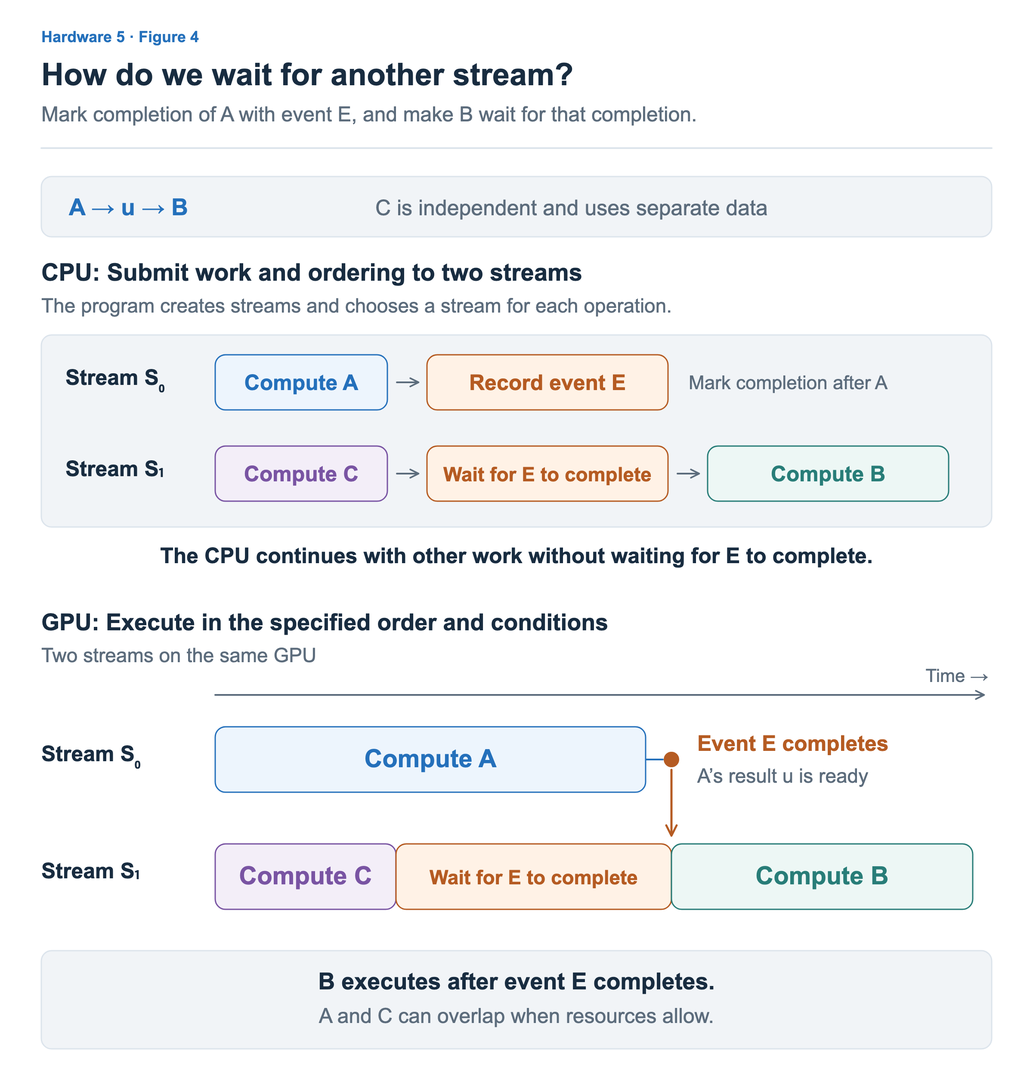
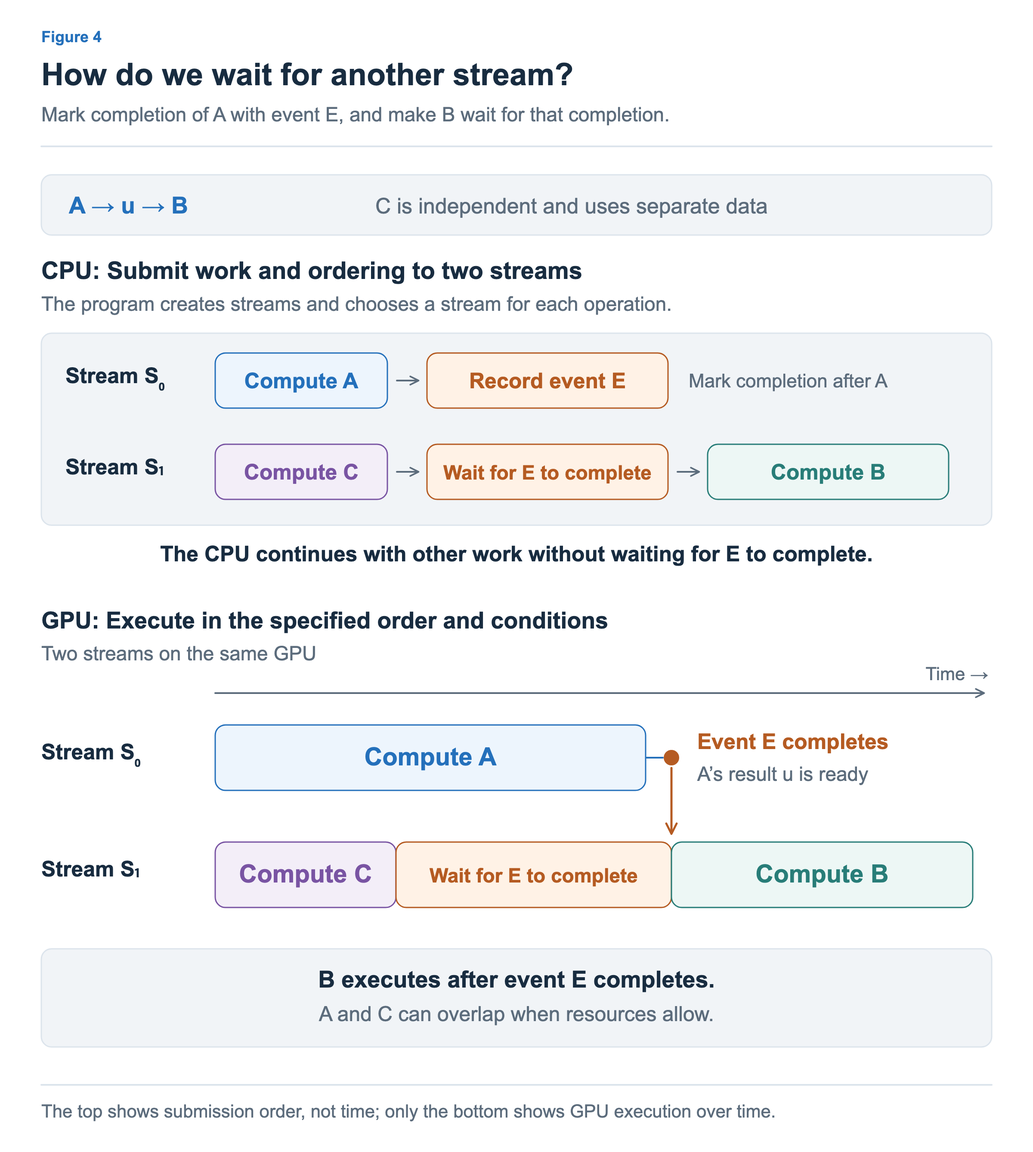
Port cpu-gpu-work-execution figures to the shared visualization module
Figures are regenerated from src/data/figures/cpu-gpu-work-execution with the standard frame
and in-image captions. Figures had no captions; new ko/en captions are drafted from the figures' own notes and the article text (please review). Eyebrows change from “하드웨어 5 · 그림 N” to “그림 N”.

diff --git a/src/data/figures/cpu-gpu-work-execution/01-host-code-and-device-work.ts b/src/data/figures/cpu-gpu-work-execution/01-host-code-and-device-work.ts
@@ -1,0 +1,65 @@
+import {C,Panel,markerUrl,type FigureSpec,type Locale} from '@llm-systems/viz';
+// Ported from the published SVG with its original geometry; replace parts with shared primitives when editing.
+export default {
+  articleId:"cpu-gpu-work-execution",figureId:"01-host-code-and-device-work",number:"01-host-code-and-device-work",
+  layout:'wide',screens:['desktop'],
+  eyebrow:["그림 1","Figure 1"],
+  title:["이 코드는 어디에서 실행될까?","Where does this code run?"],
+  subtitle:["CPU의 호출 코드와 GPU의 커널 본문을 연결합니다.","Connect CPU calls to the kernel bodies that run on the GPU."],
+  alt:["CPU 코드가 GPU 버퍼 확보, 입력 복사, 커널 A와 B 실행, 결과 복사를 요청한다. GPU 커널 A는 입력에 1을 더하고 B는 중간값을 두 배로 만든다. 입력 [1,2,3,4]가 GPU로 복사되고 x, u, y를 거쳐 결과 [4,6,8,10]이 CPU로 돌아온다. 중간값 u는 GPU에 남는다. 점선은 실행 요청, 실선은 데이터 이동이다.","CPU code requests GPU buffers, an input copy, kernel launches A and B, and a result copy. GPU kernel A adds 1 to the input; B doubles the intermediate values. Input [1,2,3,4] is copied to the GPU, passes through x, u, and y, and returns to the CPU as [4,6,8,10]. Intermediate values u stay on the GPU. Dashed arrows represent launch requests; solid arrows represent data flow."],
+  caption:["점선은 실행 요청, 실선은 데이터 이동입니다. 값은 설명용 예시입니다.","Dashed lines are execution requests; solid lines are data movement. Values are illustrative."],
+  sources:[],
+  panels(locale:Locale){
+    const p=new Panel(locale,null,820,1104,[48,208]);
+    p.el("rect",{x:48,y:210,width:510,height:424,rx:12,fill:C.grayFill,stroke:C.line,"stroke-width":1.5});
+    p.el("rect",{x:612,y:210,width:540,height:424,rx:12,fill:C.grayFill,stroke:C.line,"stroke-width":1.5});
+    p.el('text',{x:76,y:251,fill:C.ink,"font-size":27,"font-weight":700,"text-anchor":"start"},["CPU에서 실행하는 호출 코드","Calling code on the CPU"]);
+    p.el('text',{x:640,y:251,fill:C.ink,"font-size":27,"font-weight":700,"text-anchor":"start"},["GPU에서 실행하는 커널 본문","Kernel bodies on the GPU"]);
+    p.el('text',{x:76,y:297,fill:C.ink,"font-size":23,"font-weight":400,"text-anchor":"start","font-family":"Menlo,Consolas,monospace"},"cudaMalloc(...)");
+    p.el('text',{x:76,y:325,fill:C.muted,"font-size":21,"font-weight":400,"text-anchor":"start"},["GPU의 x·u·y 버퍼 확보","Allocate GPU buffers for x, u, and y"]);
+    p.el('text',{x:76,y:366,fill:C.ink,"font-size":23,"font-weight":400,"text-anchor":"start","font-family":"Menlo,Consolas,monospace"},"cudaMemcpy(...)");
+    p.el('text',{x:76,y:394,fill:C.muted,"font-size":21,"font-weight":400,"text-anchor":"start"},["CPU의 입력을 GPU로 복사","Copy CPU input to the GPU"]);
+    p.el('text',{x:76,y:590,fill:C.ink,"font-size":23,"font-weight":400,"text-anchor":"start","font-family":"Menlo,Consolas,monospace"},"cudaMemcpy(...)");
+    p.el('text',{x:76,y:618,fill:C.muted,"font-size":21,"font-weight":400,"text-anchor":"start"},["GPU의 결과를 CPU로 복사","Copy GPU results to the CPU"]);
+    p.el('text',{x:76,y:445,fill:C.blue,"font-size":23,"font-weight":600,"text-anchor":"start","font-family":"Menlo,Consolas,monospace"},"A<<<...>>>(d_x, d_u);");
+    p.el('text',{x:76,y:521,fill:C.teal,"font-size":23,"font-weight":600,"text-anchor":"start","font-family":"Menlo,Consolas,monospace"},"B<<<...>>>(d_u, d_y);");
+    p.el("rect",{x:640,y:398,width:484,height:70,rx:12,fill:C.blueFill,stroke:C.blue,"stroke-width":1.5});
+    p.el('text',{x:662,y:425,fill:C.blue,"font-size":21,"font-weight":600,"text-anchor":"start"},["계산 A","Compute A"]);
+    p.el('text',{x:662,y:453,fill:C.blue,"font-size":24,"font-weight":400,"text-anchor":"start","font-family":"Menlo,Consolas,monospace"},"u[i] = x[i] + 1;");
+    p.el("rect",{x:640,y:474,width:484,height:70,rx:12,fill:C.tealFill,stroke:C.teal,"stroke-width":1.5});
+    p.el('text',{x:662,y:501,fill:C.teal,"font-size":21,"font-weight":600,"text-anchor":"start"},["계산 B","Compute B"]);
+    p.el('text',{x:662,y:529,fill:C.teal,"font-size":24,"font-weight":400,"text-anchor":"start","font-family":"Menlo,Consolas,monospace"},"y[i] = 2 * u[i];");
+    p.el("path",{d:"M544,437 H631",fill:"none",stroke:C.blue,"stroke-width":2,"marker-end":markerUrl(C.blue),"stroke-dasharray":"7 7"});
+    p.el("path",{d:"M544,513 H631",fill:"none",stroke:C.teal,"stroke-width":2,"marker-end":markerUrl(C.teal),"stroke-dasharray":"7 7"});
+    p.el('text',{x:640,y:310,fill:C.muted,"font-size":(locale==='ko'?23:22),"font-weight":400,"text-anchor":"start"},["공간 확보와 복사는 CPU에서 요청","The CPU requests allocation and copies"]);
+    p.el('text',{x:640,y:347,fill:C.muted,"font-size":(locale==='ko'?23:22),"font-weight":400,"text-anchor":"start"},["커널의 계산은 GPU 스레드가 수행","GPU threads perform the computation"]);
+    p.el("path",{d:"M646,588 H704",fill:"none",stroke:C.muted,"stroke-width":2,"marker-end":markerUrl(C.muted),"stroke-dasharray":"7 7"});
+    p.el('text',{x:719,y:596,fill:C.muted,"font-size":21,"font-weight":400,"text-anchor":"start"},["점선: 커널 실행 요청","Dashed: kernel launch request"]);
+    p.el('text',{x:48,y:698,fill:C.ink,"font-size":28,"font-weight":700,"text-anchor":"start"},["데이터가 놓이는 곳과 이동 경로","Where data lives and how it moves"]);
+    p.el("rect",{x:48,y:736,width:226,height:160,rx:12,fill:C.paper,stroke:C.line,"stroke-width":1.5});
+    p.el('text',{x:161,y:776,fill:C.ink,"font-size":24,"font-weight":600,"text-anchor":"middle"},["CPU 메모리","CPU memory"]);
+    p.el("rect",{x:343,y:736,width:514,height:160,rx:12,fill:C.paper,stroke:C.line,"stroke-width":1.5});
+    p.el('text',{x:600,y:776,fill:C.ink,"font-size":24,"font-weight":600,"text-anchor":"middle"},["GPU 메모리","GPU memory"]);
+    p.el("rect",{x:926,y:736,width:226,height:160,rx:12,fill:C.paper,stroke:C.line,"stroke-width":1.5});
+    p.el('text',{x:1039,y:776,fill:C.ink,"font-size":24,"font-weight":600,"text-anchor":"middle"},["CPU 메모리","CPU memory"]);
+    p.el('text',{x:161,y:829,fill:C.orange,"font-size":25,"font-weight":600,"text-anchor":"middle"},["입력 x","Input x"]);
+    p.el('text',{x:161,y:865,fill:C.muted,"font-size":23,"font-weight":400,"text-anchor":"middle"},"[1, 2, 3, 4]");
+    p.el("rect",{x:364,y:806,width:112,height:62,rx:12,fill:C.orangeFill,stroke:C.orange,"stroke-width":1.5});
+    p.el('text',{x:420,y:846,fill:C.orange,"font-size":29,"font-weight":600,"text-anchor":"middle"},"x");
+    p.el("rect",{x:544,y:806,width:112,height:62,rx:12,fill:C.blueFill,stroke:C.blue,"stroke-width":1.5});
+    p.el('text',{x:600,y:846,fill:C.blue,"font-size":29,"font-weight":600,"text-anchor":"middle"},"u");
+    p.el("rect",{x:724,y:806,width:112,height:62,rx:12,fill:C.tealFill,stroke:C.teal,"stroke-width":1.5});
+    p.el('text',{x:780,y:846,fill:C.teal,"font-size":29,"font-weight":600,"text-anchor":"middle"},"y");
+    p.el("path",{d:"M278,837 H355",fill:"none",stroke:C.purple,"stroke-width":2,"marker-end":markerUrl(C.purple)});
+    p.el("path",{d:"M860,837 H918",fill:"none",stroke:C.purple,"stroke-width":2,"marker-end":markerUrl(C.purple)});
+    p.el("path",{d:"M482,837 H535",fill:"none",stroke:C.blue,"stroke-width":2,"marker-end":markerUrl(C.blue)});
+    p.el('text',{x:507,y:793,fill:C.blue,"font-size":22,"font-weight":600,"text-anchor":"middle"},"A");
+    p.el("path",{d:"M662,837 H715",fill:"none",stroke:C.teal,"stroke-width":2,"marker-end":markerUrl(C.teal)});
+    p.el('text',{x:688,y:793,fill:C.teal,"font-size":22,"font-weight":600,"text-anchor":"middle"},"B");
+    p.el('text',{x:1039,y:829,fill:C.teal,"font-size":25,"font-weight":600,"text-anchor":"middle"},["결과 y","Result y"]);
+    p.el('text',{x:1039,y:865,fill:C.muted,"font-size":23,"font-weight":400,"text-anchor":"middle"},"[4, 6, 8, 10]");
+    p.el("rect",{x:48,y:938,width:1104,height:82,rx:12,fill:C.grayFill,stroke:C.line,"stroke-width":1.5});
+    p.el('text',{x:600,y:983,fill:C.ink,"font-size":27,"font-weight":600,"text-anchor":"middle"},["중간값 u는 GPU에 남아 다음 계산 B의 입력이 됩니다.","Intermediate values u stay on the GPU as input to B."]);
+    return [p];
+  },
+} satisfies FigureSpec;

diff --git a/src/data/figures/cpu-gpu-work-execution/04-stream-event-dependency.ts b/src/data/figures/cpu-gpu-work-execution/04-stream-event-dependency.ts
@@ -1,0 +1,61 @@
+import {C,Panel,markerUrl,type FigureSpec,type Locale} from '@llm-systems/viz';
+// Ported from the published SVG with its original geometry; replace parts with shared primitives when editing.
+export default {
+  articleId:"cpu-gpu-work-execution",figureId:"04-stream-event-dependency",number:"04-stream-event-dependency",
+  layout:'wide',screens:['desktop'],
+  eyebrow:["그림 4","Figure 4"],
+  title:["다른 스트림의 결과는 어떻게 기다릴까?","How do we wait for another stream?"],
+  subtitle:["이벤트 E로 A의 완료를 표시하고, B가 그 완료를 기다리도록 지정합니다.","Mark completion of A with event E, and make B wait for that completion."],
+  alt:["위쪽은 CPU가 등록하는 순서이며 시간축이 아니다. 프로그램이 같은 GPU에 두 스트림을 만든다. S0에 계산 A와 이벤트 E 기록을, S1에 계산 C와 이벤트 E 완료 대기와 계산 B를 순서대로 등록한다. CPU는 이벤트 E 완료까지 기다리지 않고 다음 작업을 계속한다. 아래쪽 GPU 시간축에서는 독립적인 A와 C가 겹쳐 실행된다. C가 끝나도 이벤트 E가 완료되지 않았다면 B는 기다린다. A가 끝나고 이벤트 E가 완료된 뒤 B가 실행된다. 동시 실행은 자원이 허용하는 경우다.","The top shows CPU submission order, not a timeline. The program creates two streams on the same GPU. It submits A and recording event E in S0, then C, a wait for E to complete, and B in S1. The CPU continues without waiting for E. In the GPU timeline below, independent A and C overlap. If E is not complete when C finishes, B waits. B executes after A finishes and E completes. Concurrent execution depends on available resources."],
+  caption:["위쪽은 등록 순서이며 시간축이 아닙니다. 아래쪽만 GPU의 실행 시간을 나타냅니다.","The top shows submission order, not time; only the bottom shows GPU execution over time."],
+  sources:[],
+  panels(locale:Locale){
+    const p=new Panel(locale,null,1018,1104,[48,208]);
+    p.el("rect",{x:48,y:205,width:1104,height:70,rx:12,fill:C.grayFill,stroke:C.line,"stroke-width":1.5});
+    p.el('text',{x:80,y:250,fill:C.blue,"font-size":27,"font-weight":600,"text-anchor":"start"},"A → u → B");
+    p.el('text',{x:436,y:250,fill:C.muted,"font-size":25,"font-weight":400,"text-anchor":"start"},["C는 별도 데이터를 사용하는 독립적인 계산","C is independent and uses separate data"]);
+    p.el('text',{x:48,y:326,fill:C.ink,"font-size":28,"font-weight":700,"text-anchor":"start"},["CPU: 두 스트림에 작업과 순서를 등록","CPU: Submit work and ordering to two streams"]);
+    p.el('text',{x:48,y:363,fill:C.muted,"font-size":23,"font-weight":400,"text-anchor":"start"},["프로그램이 스트림을 만들고, 각 작업을 어느 스트림에 넣을지 지정합니다.","The program creates streams and chooses a stream for each operation."]);
+    p.el("rect",{x:48,y:389,width:1104,height:223,rx:12,fill:C.grayFill,stroke:C.line,"stroke-width":1.5});
+    p.el('text',{x:76,y:447,fill:C.ink,"font-size":25,"font-weight":600,"text-anchor":"start"},["스트림 S₀","Stream S₀"]);
+    p.el("rect",{x:250,y:412,width:200,height:64,rx:12,fill:C.blueFill,stroke:C.blue,"stroke-width":1.5});
+    p.el('text',{x:350,y:453,fill:C.blue,"font-size":25,"font-weight":600,"text-anchor":"middle"},["계산 A","Compute A"]);
+    p.el("path",{d:"M461,444 H485",fill:"none",stroke:C.muted,"stroke-width":2,"marker-end":markerUrl(C.muted)});
+    p.el("rect",{x:496,y:412,width:280,height:64,rx:12,fill:C.orangeFill,stroke:C.orange,"stroke-width":1.5});
+    p.el('text',{x:636,y:453,fill:C.orange,"font-size":25,"font-weight":600,"text-anchor":"middle"},["이벤트 E 기록","Record event E"]);
+    p.el('text',{x:800,y:452,fill:C.muted,"font-size":22,"font-weight":400,"text-anchor":"start"},["A 뒤에 완료 지점 표시","Mark completion after A"]);
+    p.el('text',{x:76,y:553,fill:C.ink,"font-size":25,"font-weight":600,"text-anchor":"start"},["스트림 S₁","Stream S₁"]);
+    p.el("rect",{x:250,y:518,width:200,height:64,rx:12,fill:C.purpleFill,stroke:C.purple,"stroke-width":1.5});
+    p.el('text',{x:350,y:559,fill:C.purple,"font-size":25,"font-weight":600,"text-anchor":"middle"},["계산 C","Compute C"]);
+    p.el("path",{d:"M461,550 H485",fill:"none",stroke:C.muted,"stroke-width":2,"marker-end":markerUrl(C.muted)});
+    p.el("rect",{x:496,y:518,width:280,height:64,rx:12,fill:C.orangeFill,stroke:C.orange,"stroke-width":1.5});
+    p.el('text',{x:636,y:559,fill:C.orange,"font-size":(locale==='ko'?24:23),"font-weight":600,"text-anchor":"middle"},["이벤트 E 완료 대기","Wait for E to complete"]);
+    p.el("path",{d:"M787,550 H811",fill:"none",stroke:C.muted,"stroke-width":2,"marker-end":markerUrl(C.muted)});
+    p.el("rect",{x:822,y:518,width:280,height:64,rx:12,fill:C.tealFill,stroke:C.teal,"stroke-width":1.5});
+    p.el('text',{x:962,y:559,fill:C.teal,"font-size":25,"font-weight":600,"text-anchor":"middle"},["계산 B","Compute B"]);
+    p.el('text',{x:600,y:654,fill:C.ink,"font-size":25,"font-weight":600,"text-anchor":"middle"},["CPU는 이벤트 E 완료를 기다리지 않고 다음 CPU 작업을 계속합니다.","The CPU continues with other work without waiting for E to complete."]);
+    p.el('text',{x:48,y:732,fill:C.ink,"font-size":(locale==='ko'?28:27),"font-weight":700,"text-anchor":"start"},["GPU: 등록된 순서와 조건에 따라 실행","GPU: Execute in the specified order and conditions"]);
+    p.el('text',{x:48,y:769,fill:C.muted,"font-size":23,"font-weight":400,"text-anchor":"start"},["같은 GPU의 두 스트림","Two streams on the same GPU"]);
+    p.el("path",{d:"M250,807 H1142",fill:"none",stroke:C.muted,"stroke-width":2,"marker-end":markerUrl(C.muted)});
+    p.el('text',{x:1148,y:792,fill:C.muted,"font-size":21,"font-weight":400,"text-anchor":"end"},["시간 →","Time →"]);
+    p.el('text',{x:48,y:884,fill:C.ink,"font-size":25,"font-weight":600,"text-anchor":"start"},["스트림 S₀","Stream S₀"]);
+    p.el("rect",{x:250,y:844,width:500,height:76,rx:12,fill:C.blueFill,stroke:C.blue,"stroke-width":1.5});
+    p.el('text',{x:500,y:891,fill:C.blue,"font-size":29,"font-weight":600,"text-anchor":"middle"},["계산 A","Compute A"]);
+    p.el("path",{d:"M751,882 H770",fill:"none",stroke:C.blue,"stroke-width":2});
+    p.el("circle",{cx:780,cy:882,r:9,fill:C.orange});
+    p.el('text',{x:810,y:872,fill:C.orange,"font-size":25,"font-weight":600,"text-anchor":"start"},["이벤트 E 완료","Event E completes"]);
+    p.el('text',{x:810,y:909,fill:C.muted,"font-size":23,"font-weight":400,"text-anchor":"start"},["A의 결과 u 준비","A’s result u is ready"]);
+    p.el('text',{x:48,y:1020,fill:C.ink,"font-size":25,"font-weight":600,"text-anchor":"start"},["스트림 S₁","Stream S₁"]);
+    p.el("rect",{x:250,y:980,width:210,height:76,rx:12,fill:C.purpleFill,stroke:C.purple,"stroke-width":1.5});
+    p.el('text',{x:355,y:1027,fill:C.purple,"font-size":29,"font-weight":600,"text-anchor":"middle"},["계산 C","Compute C"]);
+    p.el("rect",{x:460,y:980,width:320,height:76,rx:12,fill:C.orangeFill,stroke:C.orange,"stroke-width":1.5});
+    p.el('text',{x:620,y:1027,fill:C.orange,"font-size":(locale==='ko'?25:23),"font-weight":600,"text-anchor":"middle"},["이벤트 E 완료 대기","Wait for E to complete"]);
+    p.el("rect",{x:780,y:980,width:350,height:76,rx:12,fill:C.tealFill,stroke:C.teal,"stroke-width":1.5});
+    p.el('text',{x:955,y:1027,fill:C.teal,"font-size":29,"font-weight":600,"text-anchor":"middle"},["계산 B","Compute B"]);
+    p.el("path",{d:"M780,894 V969",fill:"none",stroke:C.orange,"stroke-width":2.5,"marker-end":markerUrl(C.orange)});
+    p.el("rect",{x:48,y:1104,width:1104,height:114,rx:12,fill:C.grayFill,stroke:C.line,"stroke-width":1.5});
+    p.el('text',{x:600,y:1149,fill:C.ink,"font-size":27,"font-weight":600,"text-anchor":"middle"},["B는 이벤트 E 완료 뒤에 실행됩니다.","B executes after event E completes."]);
+    p.el('text',{x:600,y:1188,fill:C.muted,"font-size":24,"font-weight":400,"text-anchor":"middle"},["A와 C는 자원이 허용하면 겹쳐 실행될 수 있습니다.","A and C can overlap when resources allow."]);
+    return [p];
+  },
+} satisfies FigureSpec;

diff --git a/src/data/figures/cpu-gpu-work-execution/03-host-waits-for-result.ts b/src/data/figures/cpu-gpu-work-execution/03-host-waits-for-result.ts
@@ -1,0 +1,42 @@
+import {C,Panel,markerUrl,type FigureSpec,type Locale} from '@llm-systems/viz';
+// Ported from the published SVG with its original geometry; replace parts with shared primitives when editing.
+export default {
+  articleId:"cpu-gpu-work-execution",figureId:"03-host-waits-for-result",number:"03-host-waits-for-result",
+  layout:'wide',screens:['desktop'],
+  eyebrow:["그림 3","Figure 3"],
+  title:["CPU는 언제 기다릴까?","When does the CPU wait?"],
+  subtitle:["완료를 기다리는 GPU → CPU 복사 호출로 결과를 가져옵니다.","Retrieve results with a GPU → CPU copy call that waits for completion."],
+  alt:["CPU는 A와 B를 등록하고 GPU에서 CPU로 결과를 복사하는 cudaMemcpy 호출에서 기다린다. 그동안 GPU는 계산 A, 계산 B, 결과 복사를 진행한다. 결과가 CPU 메모리에 준비되면 복사 호출이 반환되고 CPU가 실제 값을 사용한다. CPU의 대기와 GPU의 작업은 같은 시간에 일어난다.","The CPU submits A and B, then waits in a cudaMemcpy call that copies the result from GPU to CPU. Meanwhile, the GPU performs A, B, and the result copy. Once the result is ready in CPU memory, the call returns and the CPU uses the values. The CPU wait and GPU work overlap in time."],
+  caption:["복사 호출에서 기다리는 시간에는 앞선 GPU 계산이 끝나기를 기다리는 시간도 포함될 수 있습니다.","Time spent in the copy call can include waiting for earlier GPU computation to finish."],
+  sources:[],
+  panels(locale:Locale){
+    const p=new Panel(locale,null,575,1104,[48,208]);
+    p.el('text',{x:48,y:222,fill:C.muted,"font-size":23,"font-weight":400,"text-anchor":"start"},["CPU에서 실제 결과 y를 사용하는 경우","When the CPU needs the actual values of y"]);
+    p.el("path",{d:"M240,254 H1142",fill:"none",stroke:C.muted,"stroke-width":2,"marker-end":markerUrl(C.muted)});
+    p.el('text',{x:1148,y:239,fill:C.muted,"font-size":21,"font-weight":400,"text-anchor":"end"},["시간 →","Time →"]);
+    p.el('text',{x:48,y:329,fill:C.ink,"font-size":28,"font-weight":700,"text-anchor":"start"},"CPU");
+    p.el('text',{x:48,y:365,fill:C.muted,"font-size":(locale==='ko'?22:18),"font-weight":400,"text-anchor":"start"},["등록·결과 사용","Submit / use results"]);
+    p.el("rect",{x:240,y:297,width:176,height:70,rx:12,fill:C.blueFill,stroke:C.blue,"stroke-width":1.5});
+    p.el('text',{x:328,y:341,fill:C.blue,"font-size":25,"font-weight":600,"text-anchor":"middle"},["A·B 등록","Submit A, B"]);
+    p.el("rect",{x:448,y:297,width:522,height:70,rx:12,fill:C.grayFill,stroke:C.muted,"stroke-width":1.5});
+    p.el('text',{x:709,y:341,fill:C.muted,"font-size":26,"font-weight":600,"text-anchor":"middle"},["결과 복사 호출 안에서 대기","Wait inside the result-copy call"]);
+    p.el("rect",{x:970,y:297,width:168,height:70,rx:12,fill:C.tealFill,stroke:C.teal,"stroke-width":1.5});
+    p.el('text',{x:1054,y:341,fill:C.teal,"font-size":25,"font-weight":600,"text-anchor":"middle"},["결과 사용","Use results"]);
+    p.el('text',{x:449,y:412,fill:C.muted,"font-size":20,"font-weight":400,"text-anchor":"start","font-family":"Menlo,Consolas,monospace"},"cudaMemcpy(..., cudaMemcpyDeviceToHost)");
+    p.el('text',{x:48,y:526,fill:C.ink,"font-size":28,"font-weight":700,"text-anchor":"start"},["GPU 작업","GPU work"]);
+    p.el('text',{x:48,y:562,fill:C.muted,"font-size":23,"font-weight":400,"text-anchor":"start"},["계산·복사","Compute / copy"]);
+    p.el("rect",{x:320,y:492,width:270,height:86,rx:12,fill:C.blueFill,stroke:C.blue,"stroke-width":1.5});
+    p.el('text',{x:455,y:544,fill:C.blue,"font-size":29,"font-weight":600,"text-anchor":"middle"},["계산 A","Compute A"]);
+    p.el("rect",{x:590,y:492,width:230,height:86,rx:12,fill:C.tealFill,stroke:C.teal,"stroke-width":1.5});
+    p.el('text',{x:705,y:544,fill:C.teal,"font-size":29,"font-weight":600,"text-anchor":"middle"},["계산 B","Compute B"]);
+    p.el("rect",{x:820,y:492,width:150,height:86,rx:12,fill:C.purpleFill,stroke:C.purple,"stroke-width":1.5});
+    p.el('text',{x:895,y:527,fill:C.purple,"font-size":24,"font-weight":600,"text-anchor":"middle"},["결과 복사","Copy result"]);
+    p.el('text',{x:895,y:560,fill:C.purple,"font-size":19,"font-weight":400,"text-anchor":"middle"},"GPU → CPU");
+    p.el("path",{d:"M970,483 V375",fill:"none",stroke:C.purple,"stroke-width":2,"marker-end":markerUrl(C.purple)});
+    p.el('text',{x:971,y:619,fill:C.purple,"font-size":23,"font-weight":600,"text-anchor":"end"},["CPU 메모리에 결과 준비","Result ready in CPU memory"]);
+    p.el("rect",{x:48,y:661,width:1104,height:114,rx:12,fill:C.grayFill,stroke:C.line,"stroke-width":1.5});
+    p.el('text',{x:600,y:706,fill:C.ink,"font-size":(locale==='ko'?27:26),"font-weight":600,"text-anchor":"middle"},["CPU가 기다리는 동안에도 GPU 계산과 데이터 전달은 진행됩니다.","GPU computation and data transfer continue while the CPU waits."]);
+    p.el('text',{x:600,y:745,fill:C.muted,"font-size":24,"font-weight":400,"text-anchor":"middle"},["결과 복사가 끝나야 CPU가 y의 실제 값을 사용할 수 있습니다.","The CPU can use the values of y once the result copy finishes."]);
+    return [p];
+  },
+} satisfies FigureSpec;

diff --git a/src/data/figures/cpu-gpu-work-execution/02-enqueue-and-execute.ts b/src/data/figures/cpu-gpu-work-execution/02-enqueue-and-execute.ts
@@ -1,0 +1,40 @@
+import {C,Panel,markerUrl,type FigureSpec,type Locale} from '@llm-systems/viz';
+// Ported from the published SVG with its original geometry; replace parts with shared primitives when editing.
+export default {
+  articleId:"cpu-gpu-work-execution",figureId:"02-enqueue-and-execute",number:"02-enqueue-and-execute",
+  layout:'wide',screens:['desktop'],
+  eyebrow:["그림 2","Figure 2"],
+  title:["등록한 작업은 언제 실행될까?","When does submitted work execute?"],
+  subtitle:["CPU가 작업을 등록하는 시점과 GPU가 실행을 마치는 시점은 다릅니다.","CPU submission and GPU completion happen at different times."],
+  alt:["같은 시간축의 CPU 행에는 A 등록과 B 등록 후 다른 CPU 작업이 있다. GPU 스트림 S에서는 A 후 B가 실행된다. 세로 표시 시점에 CPU는 B 등록까지 마쳤지만 GPU는 A를 실행 중이다. 입력 복사는 미리 완료된 상태다.","On a shared time axis, the CPU submits A and B and then performs other work. In GPU stream S, A executes before B. At the marked instant, the CPU has submitted B, but the GPU is still executing A. The input copy has already completed."],
+  caption:["입력 복사가 끝난 뒤부터 보여 줍니다. 막대 길이는 실제 실행 시간의 비율이 아닙니다.","Shown after input copies finish. Bar lengths are not actual execution-time ratios."],
+  sources:[],
+  panels(locale:Locale){
+    const p=new Panel(locale,null,571,1104,[48,208]);
+    p.el('text',{x:48,y:222,fill:C.muted,"font-size":23,"font-weight":400,"text-anchor":"start"},["입력 x는 이미 GPU에 준비된 상태","Input x is already ready on the GPU"]);
+    p.el("path",{d:"M240,254 H1142",fill:"none",stroke:C.muted,"stroke-width":2,"marker-end":markerUrl(C.muted)});
+    p.el('text',{x:1148,y:239,fill:C.muted,"font-size":21,"font-weight":400,"text-anchor":"end"},["시간 →","Time →"]);
+    p.el('text',{x:48,y:327,fill:C.ink,"font-size":28,"font-weight":700,"text-anchor":"start"},"CPU");
+    p.el('text',{x:48,y:363,fill:C.muted,"font-size":23,"font-weight":400,"text-anchor":"start"},["작업 등록","Submit work"]);
+    p.el("rect",{x:240,y:292,width:126,height:70,rx:12,fill:C.blueFill,stroke:C.blue,"stroke-width":1.5});
+    p.el('text',{x:303,y:336,fill:C.blue,"font-size":(locale==='ko'?25:22),"font-weight":600,"text-anchor":"middle"},["A 등록","Submit A"]);
+    p.el("rect",{x:410,y:292,width:126,height:70,rx:12,fill:C.tealFill,stroke:C.teal,"stroke-width":1.5});
+    p.el('text',{x:473,y:336,fill:C.teal,"font-size":(locale==='ko'?25:22),"font-weight":600,"text-anchor":"middle"},["B 등록","Submit B"]);
+    p.el("rect",{x:650,y:292,width:488,height:70,rx:12,fill:C.grayFill,stroke:C.muted,"stroke-width":1.5});
+    p.el('text',{x:894,y:336,fill:C.muted,"font-size":25,"font-weight":600,"text-anchor":"middle"},["다른 CPU 작업","Other CPU work"]);
+    p.el('text',{x:48,y:506,fill:C.ink,"font-size":28,"font-weight":700,"text-anchor":"start"},"GPU");
+    p.el('text',{x:48,y:542,fill:C.muted,"font-size":23,"font-weight":400,"text-anchor":"start"},["스트림 S","Stream S"]);
+    p.el("rect",{x:376,y:474,width:404,height:86,rx:12,fill:C.blueFill,stroke:C.blue,"stroke-width":1.5});
+    p.el('text',{x:578,y:526,fill:C.blue,"font-size":(locale==='ko'?29:27),"font-weight":600,"text-anchor":"middle"},["계산 A  ·  x → u","Compute A  ·  x → u"]);
+    p.el("rect",{x:780,y:474,width:358,height:86,rx:12,fill:C.tealFill,stroke:C.teal,"stroke-width":1.5});
+    p.el('text',{x:959,y:526,fill:C.teal,"font-size":(locale==='ko'?29:27),"font-weight":600,"text-anchor":"middle"},["계산 B  ·  u → y","Compute B  ·  u → y"]);
+    p.el("path",{d:"M366,373 L376,464",fill:"none",stroke:C.blue,"stroke-width":2,"marker-end":markerUrl(C.blue),"stroke-dasharray":"7 7"});
+    p.el("path",{d:"M536,373 L780,464",fill:"none",stroke:C.teal,"stroke-width":2,"marker-end":markerUrl(C.teal),"stroke-dasharray":"7 7"});
+    p.el("path",{d:"M608,275 V490 M608,545 V585",fill:"none",stroke:C.orange,"stroke-width":2.5,"stroke-dasharray":"7 7"});
+    p.el('text',{x:608,y:619,fill:C.orange,"font-size":24,"font-weight":600,"text-anchor":"middle"},["이 시점","At this instant"]);
+    p.el("rect",{x:48,y:657,width:1104,height:114,rx:12,fill:C.grayFill,stroke:C.line,"stroke-width":1.5});
+    p.el('text',{x:600,y:702,fill:C.ink,"font-size":27,"font-weight":600,"text-anchor":"middle"},["CPU는 B까지 등록했지만, GPU는 아직 A를 실행 중입니다.","The CPU has submitted B, but the GPU is still executing A."]);
+    p.el('text',{x:600,y:741,fill:C.muted,"font-size":24,"font-weight":400,"text-anchor":"middle"},["같은 스트림에서는 A가 끝난 뒤 B가 실행됩니다.","In the same stream, B executes after A finishes."]);
+    return [p];
+  },
+} satisfies FigureSpec;
